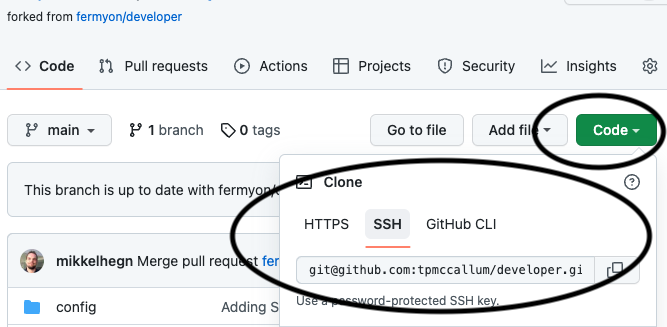
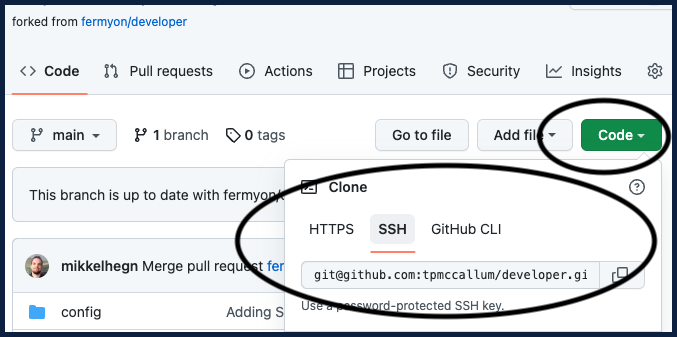
Add final image and add borders to all images

diff --git a/content/cloud/contributing.md b/content/cloud/contributing.md
@@ -101,9 +101,11 @@ git push -u origin my_new_branch
 
 If you return to your GitHub repository in your browser, you will notice that a PR has automatically been generated for you.
 
-Clicking on the green “Compare and pull request” button will allow you to add a title and description as part of the PR. You can also add any information in the textbox provided below the title. For example, screen captures and/or code/console/terminal snippets of your contribution working correctly and/or tests passing etc.
+Clicking on the green “Compare and pull request” button will allow you to add a title and description as part of the PR. 
 
-There is one final step (another green button to push) ... Create Pull Request!
+![Compare and pull request](/static/image/compare_and_pull_request.png)
+
+You can also add any information in the textbox provided below the title. For example, screen captures and/or code/console/terminal snippets of your contribution working correctly and/or tests passing etc.
 
 Once you have finished creating your PR, please keep an eye on the PR; answering any questions as part of the collaboration process.
 
